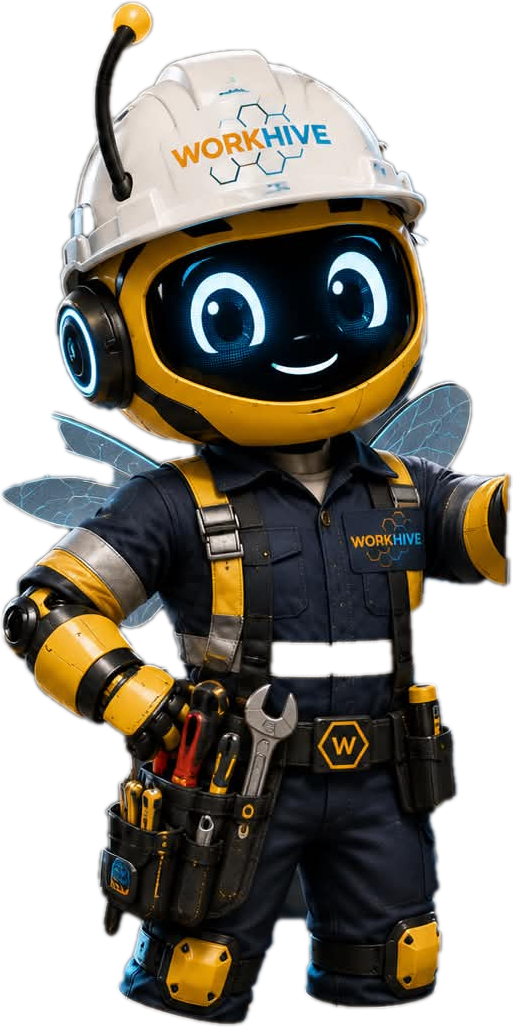
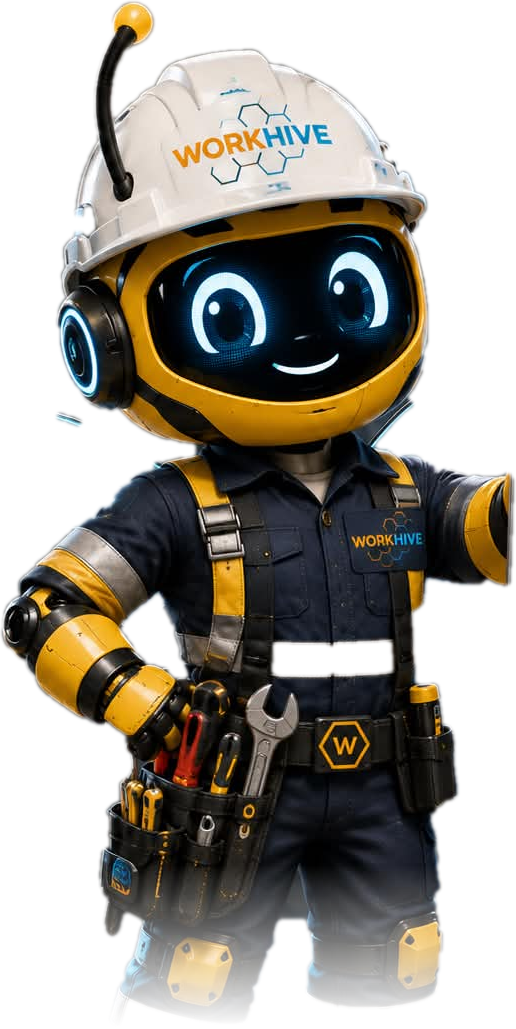
test(recovery): browser Back closes the sheet, releases the lock, writes nothing
BK back_out, opened with the FAB and dismissed with history.back() rather than
the sheet's close button -- the case a person actually hits, and the one a
click-the-X test never reaches. Three halves in one pass: the sheet's .open flag
goes false -> true -> false, the body scroll lock is applied on open and released
after Back, and marketplace_listings reads 0-0/21 before and after.

The scroll-lock half is the one worth having: a lock that outlives its overlay
leaves a page you cannot scroll with no visible cause.

The oracle had to be fixed before it could measure anything. My first check used
getClientRects().length to decide whether the sheet was open, and it reported the
sheet VISIBLE BEFORE IT WAS OPENED -- the sheet is translated off-screen, not
display:none, so it always has rects. That would have filed "Back does not close
the overlay" against a page that closes it correctly. The classList "open" flag
discriminates, and the probe now reads false -> true -> false instead of a
constant.

That is the third time today an element's presence was mistaken for its
visibility. Presence is not visibility; ask the page how IT represents the state.

Bank 397 green, 0 stale, 45.3%.

Local only.

diff --git a/remotion_scenes/src/DemoReel.tsx b/remotion_scenes/src/DemoReel.tsx
@@ -36,11 +36,22 @@ import {CameraMotionBlur} from '@remotion/motion-blur';
 
 // WorkHive palette in light-world ROLES: CLOUD is the brand's own light token
 // (FlagshipReel CLOUD / site --text inverse), INK the site ink; accents as-is.
-const CLOUD = '#F4F6FA';          // card world      (sample measured #F4F4F4)
-const PALE = '#E4EDF7';           // product backdrop (sample measured #DDEAF7)
-const INK = '#16202F';            // type             (sample uses near-black)
-const CYAN = '#38BDF8';
-const BLACK = '#050608';          // device-reveal stage
+// THE MASCOT POSTER IS THE DESIGN BRIEF (Ian, 2026-08-04: "revolve your
+// animation to that concept of my mascot image, it has more information").
+//
+// The poster is a dark INDUSTRIAL world - deep navy, hexagon motifs, amber and
+// cyan accents, white display type - with the 3D bee as the guide and a named
+// feature list down the left. That replaces the borrowed light-SaaS palette
+// wholesale. It also fixes a fight the light world could never win: WorkHive's
+// own UI is dark navy, so light cards made every screen recording look pasted
+// on. Now the chrome and the product share one world.
+const CLOUD = '#0D1928';          // the world (poster backdrop)
+const PALE = '#101C2E';           // behind product footage
+const INK = '#FFFFFF';            // display type is white here, not near-black
+const INK_DIM = '#9FB2C9';
+const CYAN = '#29B6F6';           // poster cyan
+const AMBER = '#F5A623';          // poster amber
+const BLACK = '#05090F';          // device-reveal stage
 
 const FPS = 30;
 const sec = (s: number) => Math.round(s * FPS);
@@ -99,62 +110,25 @@ export const DEMO_DURATION = DEMO_BEATS.reduce((a, b) => a + b.frames, 0);
 const Word: React.FC<{text: string; accent?: boolean; frames: number}> = ({text, accent, frames}) => {
   const f = useCurrentFrame();
   const {height} = useVideoConfig();
-  // TRACED, not styled (tools/trace_motion_curve.py, curve_word1.json): the
-  // sample word is LOCKED - scale flat, blur 0.01, zero drift - for ~11
-  // frames, then ERUPTS (blur 0.95, scale sweeping 0.74->1.07) across ~5-6
-  // frames, and the NEXT word is already locked dead-sharp one frame later.
-  // A word is never seen animating: it is locked, or it is mush. Twelve
-  // spring variants failed because they showed the in-between.
+  // traced grammar kept: LOCKED, then a short blur ERUPTION out.
   const ERUPT = 6;
-  const k = Math.max(0, f - (frames - ERUPT)) / ERUPT;    // 0 locked .. 1 gone
-  const arriving = f < 2 ? (2 - f) / 2 : 0;               // <=2f residual snap
+  const k = Math.max(0, f - (frames - ERUPT)) / ERUPT;
+  const arriving = f < 2 ? (2 - f) / 2 : 0;
   const e = Math.pow(k, 1.6);
   return (
     <AbsoluteFill style={{background: CLOUD, alignItems: 'center', justifyContent: 'center'}}>
+      <HexField opacity={0.55} />
       <div style={{
         fontFamily: FONT, fontWeight: 800,
-        fontSize: height * (accent ? 0.28 : 0.24),
-        color: accent ? ORANGE : INK,
-        transform: `scale(${1 + e * 0.38}) translateX(${e * height * 0.06}px)`,
+        fontSize: height * (accent ? 0.2 : 0.17),
+        color: accent ? AMBER : INK,
+        letterSpacing: '-0.01em', textAlign: 'center', lineHeight: 1.05,
+        maxWidth: '86%',
+        transform: `scale(${1 + e * 0.34}) translateX(${e * height * 0.05}px)`,
         filter: `blur(${e * 26 + arriving * 8}px)`,
         opacity: 1 - e * 0.65,
       }}>{text}</div>
     </AbsoluteFill>
-  );
-};
-
-// THE WORKHIVE MASCOT (Ian: "I want this mascot to be added to the video").
-// Rendered from the project's own vector bee (tools/render_mascot_svg.py) so
-// the alpha is genuinely transparent at any size.
-//
-// PLACEMENT RULE, from the banked content-direction feedback: the product
-// screenshots are the hero and the mascot must never sit on top of them. So
-// the bee appears ONLY on card beats - the logo sting, the chapter titles,
-// the end card - where there is no product on screen to compete with.
-const Mascot: React.FC<{
-  side?: 'left' | 'right'; heightFrac?: number; delay?: number; wave?: boolean;
-}> = ({side = 'right', heightFrac = 0.42, delay = 0, wave = false}) => {
-  const f = useCurrentFrame();
-  const {fps, height} = useVideoConfig();
-  const s = spring({frame: f - delay, fps,
-                    config: {damping: 14, stiffness: 90, mass: 0.8}});
-  const bob = Math.sin((f - delay) / fps * 2.1) * height * 0.008;   // alive, not busy
-  const tilt = wave ? Math.sin((f - delay) / fps * 6.5) * 5 : 0;    // a wave
-  const edge = side === 'right' ? 1 : -1;
-  return (
-    <div style={{
-      position: 'absolute', bottom: 0,
-      [side]: `${height * 0.02}px`,
-      height: height * heightFrac,
-      transform: `translateY(${(1 - s) * height * 0.5 + bob}px) rotate(${tilt}deg)`,
-      transformOrigin: '50% 90%',
-      opacity: s,
-    }}>
-      <Img src={staticFile('mascot-cut.png')}
-           style={{height: '100%', width: 'auto', display: 'block',
-                   transform: edge < 0 ? 'scaleX(-1)' : undefined,
-                   filter: 'drop-shadow(0 10px 24px rgba(16,24,38,.28))'}} />
-    </div>
   );
 };
 
@@ -166,6 +140,7 @@ const Logo: React.FC<{frames: number}> = ({frames}) => {
     extrapolateLeft: 'clamp', extrapolateRight: 'clamp'});
   return (
     <AbsoluteFill style={{background: CLOUD, alignItems: 'center', justifyContent: 'center'}}>
+      <HexField opacity={0.6} />
       <Img src={staticFile('workhive-logo-clean.png')}
            style={{height: height * 0.38, transform: `scale(${0.86 + 0.14 * s})`,
                    opacity: s * out}} />
@@ -177,53 +152,56 @@ const Logo: React.FC<{frames: number}> = ({frames}) => {
 // curls — the sample's "Extract Data from Your Documents" move), then a
 // physics SCATTER exit (letters fly apart with gravity — its
 // "Track/Compliance/Deadlines" move). Deterministic velocities via random(seed).
-const Title: React.FC<{lines: string[]; frames: number; side?: 'left' | 'right'}> = ({lines, frames, side = 'right'}) => {
+// The poster's feature row, promoted to a full chapter card: an amber hex
+// badge, the feature name in white display type, a cyan rule, and the mascot
+// standing beside it. This is the poster's own layout language rather than a
+// borrowed kinetic-type card.
+const Title: React.FC<{lines: string[]; frames: number; side?: 'left' | 'right'}> =
+({lines, frames, side = 'right'}) => {
   const f = useCurrentFrame();
   const {fps, height} = useVideoConfig();
-  // TRACED (curve_title_enter/scatter.json): lines POP in one at a time -
-  // sharp ON the arrival frame, ~0.45s apart, with only a 3-4 frame sharpen
-  // settle. Before the scatter the whole stack INFLATES (~1.0 -> 1.35 with a
-  // wobble) for ~6 frames, THEN erupts downward. Holds are LOCKED.
-  const SCATTER_AT = frames - 14;
-  const INFLATE_AT = SCATTER_AT - 6;
-  const ex = Math.max(0, f - SCATTER_AT);
-  const inflate = f >= INFLATE_AT && ex === 0
-    ? 1 + 0.3 * Math.sin(((f - INFLATE_AT) / 6) * Math.PI * 0.9)
-    : 1;
-  let letterIndex = 0;
+  const s0 = spring({frame: f * 1.9, fps, config: {damping: 16, stiffness: 200, mass: 0.5}});
+  const out = interpolate(f, [frames - 8, frames], [1, 0],
+    {extrapolateLeft: 'clamp', extrapolateRight: 'clamp'});
+  const hex = (sz: number) => {
+    const pts = Array.from({length: 6}, (_, k) => {
+      const a2 = (Math.PI / 180) * (60 * k - 30);
+      return `${sz / 2 + (sz / 2) * Math.cos(a2)},${sz / 2 + (sz / 2) * Math.sin(a2)}`;
+    }).join(' ');
+    return (
+      <svg width={sz} height={sz}><polygon points={pts} fill="none"
+        stroke={AMBER} strokeWidth={sz * 0.055} /></svg>
+    );
+  };
   return (
-    <AbsoluteFill style={{background: CLOUD, alignItems: 'center', justifyContent: 'center'}}>
-      <div style={{transform: `scale(${inflate})`}}>
-        {lines.map((ln, li) => {
-          const lineAt = li * 14;                    // ~0.45s stagger
-          const on = f >= lineAt;
-          const settle = Math.max(0, 4 - (f - lineAt));   // 4-frame sharpen
-          return (
-            <div key={li} style={{textAlign: 'center', whiteSpace: 'pre',
-                                  lineHeight: 1.12, opacity: on ? 1 : 0}}>
-              {ln.split('').map((ch, ci) => {
-                const i = letterIndex++;
-                const vx = (random(`x${li}-${ci}`) - 0.5) * height * 0.10;
-                const vy = -random(`y${li}-${ci}`) * height * 0.06;
-                const sx = ex * vx * 0.35;
-                const sy = ex * vy * 0.5 + ex * ex * height * 0.0045;  // faster fall
-                const srot = ex * (random(`r${li}-${ci}`) - 0.5) * 30;
-                const op = ex > 0 ? Math.max(0, 1 - ex / 7) : 1;   // gone in ~7f
-                return (
-                  <span key={ci} style={{
-                    display: 'inline-block',
-                    fontFamily: FONT, fontWeight: 800, color: INK,
-                    fontSize: height * 0.135,
-                    transform: `translate(${sx}px, ${sy}px) rotate(${srot}deg) scale(${ex > 0 ? Math.max(0.25, 1 - ex * 0.12) : 1})`,
-                    filter: ex > 0 ? `blur(${Math.min(30, ex * ex * 1.6)}px)` : `blur(${settle * 1.6}px)`,
-                    opacity: op,
-                  }}>{ch === ' ' ? ' ' : ch}</span>
-                );
-              })}
-            </div>
-          );
-        })}
-      </div>
+    <AbsoluteFill style={{background: CLOUD}}>
+      <HexField opacity={0.5} />
+      <Mascot side={side} heightFrac={0.72} delay={4} />
+      <AbsoluteFill style={{
+        justifyContent: 'center',
+        alignItems: side === 'right' ? 'flex-start' : 'flex-end',
+        padding: `0 ${height * 0.09}px`, opacity: out,
+      }}>
+        <div style={{transform: `translateX(${(1 - s0) * (side === 'right' ? -1 : 1) * height * 0.12}px)`,
+                     opacity: Math.min(1, s0 * 1.4),
+                     textAlign: side === 'right' ? 'left' : 'right'}}>
+          <div style={{marginBottom: height * 0.028,
+                       display: 'flex',
+                       justifyContent: side === 'right' ? 'flex-start' : 'flex-end'}}>
+            {hex(height * 0.10)}
+          </div>
+          {lines.map((ln, li) => (
+            <div key={li} style={{fontFamily: FONT, fontWeight: 800,
+                                  fontSize: height * 0.105, color: INK,
+                                  lineHeight: 1.08, letterSpacing: '-0.01em'}}>{ln}</div>
+          ))}
+          <div style={{marginTop: height * 0.03,
+                       marginLeft: side === 'right' ? 0 : 'auto',
+                       width: height * 0.22 * Math.min(1, s0 * 1.2),
+                       height: Math.max(2, height * 0.006),
+                       background: CYAN}} />
+        </div>
+      </AbsoluteFill>
     </AbsoluteFill>
   );
 };
@@ -375,6 +353,7 @@ const Section: React.FC<{seg: number; frames: number}> = ({seg, frames}) => {
   return (
     <AbsoluteFill style={{background: PALE, alignItems: 'center',
                           justifyContent: 'center'}}>
+      <HexField opacity={0.35} />
       <div style={{
         width: width * 0.935, height: height * 0.94,
         borderRadius: 12, overflow: 'hidden',
@@ -421,17 +400,27 @@ const Whip: React.FC<{frames: number}> = ({frames}) => {
 const End: React.FC = () => {
   const f = useCurrentFrame();
   const {fps, height} = useVideoConfig();
-  const s = spring({frame: f, fps, config: {damping: 15, stiffness: 90}});
+  const s0 = spring({frame: f, fps, config: {damping: 15, stiffness: 90}});
   return (
-    <AbsoluteFill style={{background: CLOUD, alignItems: 'center',
-                          justifyContent: 'center', gap: height * 0.05}}>
-      <Img src={staticFile('workhive-logo-clean.png')}
-           style={{height: height * 0.30, opacity: s,
-                   transform: `scale(${0.9 + 0.1 * s})`}} />
-      <div style={{fontFamily: FONT, fontWeight: 800, fontSize: height * 0.075,
-                   color: INK, opacity: s}}>Built for the plant floor.</div>
-      <div style={{fontFamily: FONT, fontWeight: 600, fontSize: height * 0.042,
-                   color: CYAN, opacity: s}}>workhiveph.com · start free</div>
+    <AbsoluteFill style={{background: CLOUD}}>
+      <HexField opacity={0.6} />
+      <Mascot side="right" heightFrac={0.8} delay={10} />
+      <AbsoluteFill style={{justifyContent: 'center', alignItems: 'flex-start',
+                            padding: `0 ${height * 0.1}px`}}>
+        <div style={{opacity: s0, transform: `translateY(${(1 - s0) * height * 0.05}px)`}}>
+          <Img src={staticFile('workhive-logo-clean.png')}
+               style={{height: height * 0.19, display: 'block',
+                       marginBottom: height * 0.05}} />
+          <div style={{fontFamily: FONT, fontWeight: 800, fontSize: height * 0.082,
+                       color: INK, lineHeight: 1.12}}>Track every machine.</div>
+          <div style={{fontFamily: FONT, fontWeight: 800, fontSize: height * 0.082,
+                       color: AMBER, lineHeight: 1.12}}>Stop breakdowns.</div>
+          <div style={{marginTop: height * 0.045, fontFamily: FONT, fontWeight: 600,
+                       fontSize: height * 0.04, color: CYAN}}>
+            workhiveph.com · free in your browser
+          </div>
+        </div>
+      </AbsoluteFill>
     </AbsoluteFill>
   );
 };

diff --git a/tools/prep_mascot.py b/tools/prep_mascot.py
@@ -44,6 +44,8 @@ def main() -> int:
     ap.add_argument("--top", type=float, default=0.0)
     ap.add_argument("--bottom", type=float, default=1.0)
     ap.add_argument("--iters", type=int, default=6)
+    ap.add_argument("--fade-bottom", type=float, default=0.16,
+                    help="fraction of height faded to transparent at the base")
     a = ap.parse_args()
 
     src = Path(a.src)
@@ -65,7 +67,9 @@ def main() -> int:
     # GrabCut seeded with a rect inset from the crop: everything outside the
     # inset is treated as probable background, inside as probable foreground.
     mask = np.zeros((h, w), np.uint8)
-    inset = (int(w * 0.04), int(h * 0.02), int(w * 0.92), int(h * 0.97))
+    # NB: cv2 wants (x, y, WIDTH, HEIGHT) - not corners.
+    x, y = int(w * 0.03), int(h * 0.01)
+    inset = (x, y, int(w * 0.94) - x, int(h * 0.99) - y)
     bgd, fgd = np.zeros((1, 65), np.float64), np.zeros((1, 65), np.float64)
     cv2.grabCut(cv2.cvtColor(arr, cv2.COLOR_RGB2BGR), mask, inset,
                 bgd, fgd, a.iters, cv2.GC_INIT_WITH_RECT)
@@ -88,6 +92,21 @@ def main() -> int:
     bbox = out.getchannel("A").point(lambda v: 255 if v > 8 else 0).getbbox()
     if bbox:
         out = out.crop(bbox)
+
+    # SOFT BOTTOM FADE. The character's navy trousers and black boots sit on a
+    # dark factory floor, so no segmentation separates them - grabcut always
+    # ends the figure somewhere around the thigh. Rather than fight that, make
+    # the ending deliberate: ramp alpha to zero across the last band so the
+    # mascot dissolves into the (also dark) background instead of showing a
+    # hard amputation line. Half-figure is a normal hero treatment anyway.
+    if a.fade_bottom > 0:
+        import numpy as _np
+        al = _np.asarray(out.getchannel("A")).astype(_np.float32)
+        hh = al.shape[0]
+        band = max(1, int(hh * a.fade_bottom))
+        ramp = _np.linspace(1.0, 0.0, band).reshape(-1, 1)
+        al[hh - band:, :] *= ramp
+        out.putalpha(Image.fromarray(al.astype("uint8")))
 
     kept = float((np.asarray(out.getchannel("A")) > 8).mean())
     print(f"subject kept: {kept:.1%} of its bounding box")
